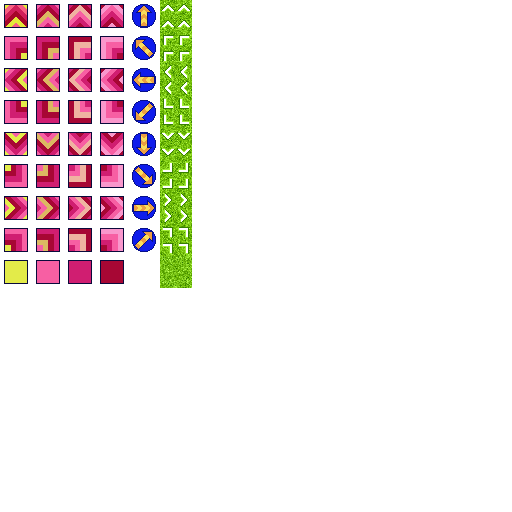
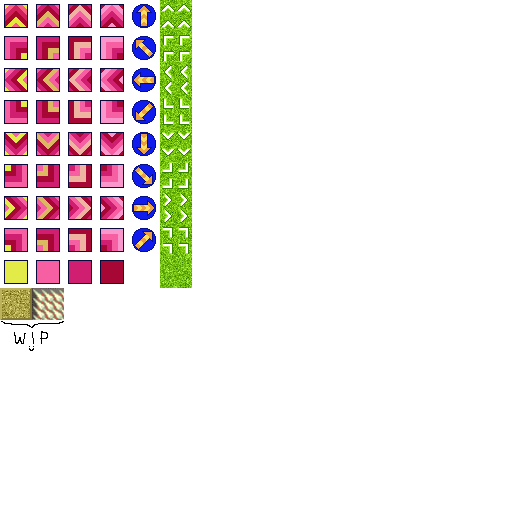
Added EffectGrass, EffectNeedle, EffectSand. (and more) Added support for DIRECTION_NULL of EffectDash

Changed region(s): [[0.0, 0.5625, 0.125, 0.6875]]

diff --git a/BulletShot/src/jp/dip/suitougreentea/BulletShot/effect/EffectGrass.java b/BulletShot/src/jp/dip/suitougreentea/BulletShot/effect/EffectGrass.java
@@ -5,17 +5,16 @@ import javax.vecmath.Vector3f;
 import jp.dip.suitougreentea.BulletShot.Resource;
 import jp.dip.suitougreentea.BulletShot.object.ObjectPlayer;
 import jp.dip.suitougreentea.BulletShot.renderer.RendererObject;
-import jp.dip.suitougreentea.BulletShot.renderer.RendererObjectDash;
-
+import jp.dip.suitougreentea.BulletShot.renderer.RendererObjectGrass;
 import com.bulletphysics.linearmath.Transform;
 
 /**
- * Add linear power to player.
+ * Change player's angle gradually decreasing velocity.
  * 
  * @author suitougreentea
  * 
  */
-public class EffectDash extends Effect {
+public class EffectGrass extends Effect {
 
     private int direction;
     public static final int DIRECTION_TOP = 0;
@@ -26,14 +25,13 @@ public class EffectDash extends Effect {
     public static final int DIRECTION_BOTTOMRIGHT = 5;
     public static final int DIRECTION_RIGHT = 6;
     public static final int DIRECTION_TOPRIGHT = 7;
-    public static final int DIRECTION_NULL = 8;
 
-    private int speed;
+    private int power;
 
-    public EffectDash(int direction, int speed) {
+    public EffectGrass(int direction, int power) {
         // super(x,z);
         this.direction = direction;
-        this.speed = speed;
+        this.power = power;
     }
 
     @Override
@@ -45,38 +43,35 @@ public class EffectDash extends Effect {
         if (player.isFlying()) {
             return false;
         }
-        if (player.getLastEffectX() == x && player.getLastEffectZ() == z) {
-            return false;
-        }
-
         Transform t = new Transform();
         player.getMotionState().getWorldTransform(t);
-        if (t.origin.x - x > 0.125f && t.origin.x - x < 0.875f && t.origin.z - z > 0.125f && t.origin.z - z < 0.875f) {
+
+        if (t.origin.x - x > 0f && t.origin.x - x < 1f && t.origin.z - z > 0f && t.origin.z - z < 1f) {
             return true;
         }
+
         return false;
     }
 
     @Override
     public void activate(int x, int z, ObjectPlayer player) {
-        if (direction == DIRECTION_NULL) {
-            Vector3f v = new Vector3f();
-            Vector3f s = new Vector3f();
-            player.getRigidBody().getLinearVelocity(v);
-            v.normalize();
-            s.x = v.x * 25 * speed;
-            s.z = v.z * 25 * speed;
-            player.getRigidBody().applyCentralForce(new Vector3f(s.x, 0f, s.z));
-        } else {
-            Vector3f s = new Vector3f();
-            s.x = (float) Math.cos((270 - direction * 45) * Math.PI / 180) * 25 * speed;
-            s.z = (float) Math.sin((270 - direction * 45) * Math.PI / 180) * 25 * speed;
-            player.getRigidBody().applyCentralForce(new Vector3f(s.x, 0f, s.z)); //TODO: 加速的な
-        }
+        Vector3f v = new Vector3f();
+        Vector3f s = new Vector3f();
+        player.getRigidBody().getLinearVelocity(v);
+        float velocity = (float) Math.sqrt(Math.pow(v.x, 2) + Math.pow(v.z, 2));
+        s.x = v.x * 0.985f;
+        s.y = v.y;
+        s.z = v.z * 0.985f;
+        player.getRigidBody().setLinearVelocity(s);
+
+        Vector3f s1 = new Vector3f();
+        s1.x = (float) Math.cos((270 - direction * 45) * Math.PI / 180) * velocity * 0.5f;
+        s1.z = (float) Math.sin((270 - direction * 45) * Math.PI / 180) * velocity * 0.5f;
+        player.getRigidBody().applyCentralForce(new Vector3f(s1.x, 0f, s1.z)); //TODO: 加速的な
     }
 
     @Override
     public RendererObject getRenderer(Resource gameResource) {
-        return new RendererObjectDash(gameResource, direction, speed);
+        return new RendererObjectGrass(gameResource, direction, power);
     }
 }

diff --git a/BulletShot/src/jp/dip/suitougreentea/BulletShot/effect/EffectNeedle.java b/BulletShot/src/jp/dip/suitougreentea/BulletShot/effect/EffectNeedle.java
@@ -1,0 +1,67 @@
+package jp.dip.suitougreentea.BulletShot.effect;
+
+import javax.vecmath.Vector3f;
+
+import jp.dip.suitougreentea.BulletShot.Resource;
+import jp.dip.suitougreentea.BulletShot.object.ObjectPlayer;
+import jp.dip.suitougreentea.BulletShot.renderer.RendererObject;
+import jp.dip.suitougreentea.BulletShot.renderer.RendererObjectNormal;
+
+import com.bulletphysics.linearmath.Transform;
+
+/**
+ * Change player's angle gradually decreasing velocity.
+ * 
+ * @author suitougreentea
+ * 
+ */
+//TODO: Rendering and motion
+public class EffectNeedle extends Effect {
+
+    private int power;
+
+    public EffectNeedle(int power) {
+        // super(x,z);
+        this.power = power;
+    }
+
+    @Override
+    public void onRegister() {
+    }
+
+    @Override
+    public boolean isActivatable(int x, int z, ObjectPlayer player) {
+        if (player.isFlying()) {
+            return false;
+        }
+        Transform t = new Transform();
+        player.getMotionState().getWorldTransform(t);
+
+        if (t.origin.x - x > 0f && t.origin.x - x < 1f && t.origin.z - z > 0f && t.origin.z - z < 1f) {
+            return true;
+        }
+
+        return false;
+    }
+
+    @Override
+    public void activate(int x, int z, ObjectPlayer player) {
+        Vector3f v = new Vector3f();
+        Vector3f s = new Vector3f();
+        player.getRigidBody().getLinearVelocity(v);
+        //v.normalize();
+        s.x = v.x;
+        s.y = 0;
+        s.z = v.z;
+        player.getRigidBody().setLinearVelocity(s);
+
+        Vector3f s1 = new Vector3f();
+        s1.y = 100;
+        player.getRigidBody().applyCentralForce(s1);
+    }
+
+    @Override
+    public RendererObject getRenderer(Resource gameResource) {
+        return new RendererObjectNormal(gameResource, 1, 9);
+    }
+}

diff --git a/BulletShot/src/jp/dip/suitougreentea/BulletShot/effect/EffectSand.java b/BulletShot/src/jp/dip/suitougreentea/BulletShot/effect/EffectSand.java
@@ -1,0 +1,62 @@
+package jp.dip.suitougreentea.BulletShot.effect;
+
+import javax.vecmath.Vector3f;
+
+import jp.dip.suitougreentea.BulletShot.Resource;
+import jp.dip.suitougreentea.BulletShot.object.ObjectPlayer;
+import jp.dip.suitougreentea.BulletShot.renderer.RendererObject;
+import jp.dip.suitougreentea.BulletShot.renderer.RendererObjectNormal;
+
+import com.bulletphysics.linearmath.Transform;
+
+/**
+ * Change player's angle gradually decreasing velocity.
+ * 
+ * @author suitougreentea
+ * 
+ */
+//TODO: Rendering
+public class EffectSand extends Effect {
+
+    private int power;
+
+    public EffectSand(int power) {
+        // super(x,z);
+        this.power = power;
+    }
+
+    @Override
+    public void onRegister() {
+    }
+
+    @Override
+    public boolean isActivatable(int x, int z, ObjectPlayer player) {
+        if (player.isFlying()) {
+            return false;
+        }
+        Transform t = new Transform();
+        player.getMotionState().getWorldTransform(t);
+
+        if (t.origin.x - x > 0f && t.origin.x - x < 1f && t.origin.z - z > 0f && t.origin.z - z < 1f) {
+            return true;
+        }
+
+        return false;
+    }
+
+    @Override
+    public void activate(int x, int z, ObjectPlayer player) {
+        Vector3f v = new Vector3f();
+        Vector3f s = new Vector3f();
+        player.getRigidBody().getLinearVelocity(v);
+        s.x = v.x * 0.95f;
+        s.y = v.y;
+        s.z = v.z * 0.95f;
+        player.getRigidBody().setLinearVelocity(s);
+    }
+
+    @Override
+    public RendererObject getRenderer(Resource gameResource) {
+        return new RendererObjectNormal(gameResource, 0, 9);
+    }
+}

diff --git a/BulletShot/src/jp/dip/suitougreentea/BulletShot/test/StageGeneratorFlat.java b/BulletShot/src/jp/dip/suitougreentea/BulletShot/test/StageGeneratorFlat.java
@@ -4,7 +4,10 @@ import jp.dip.suitougreentea.BulletShot.Stage;
 import jp.dip.suitougreentea.BulletShot.Terrain;
 import jp.dip.suitougreentea.BulletShot.effect.Effect;
 import jp.dip.suitougreentea.BulletShot.effect.EffectDash;
+import jp.dip.suitougreentea.BulletShot.effect.EffectGrass;
 import jp.dip.suitougreentea.BulletShot.effect.EffectKick;
+import jp.dip.suitougreentea.BulletShot.effect.EffectNeedle;
+import jp.dip.suitougreentea.BulletShot.effect.EffectSand;
 
 public class StageGeneratorFlat implements StageGenerator {
     private int stageWidth;
@@ -46,8 +49,16 @@ public class StageGeneratorFlat implements StageGenerator {
         effect[5][1] = new EffectKick(EffectKick.DIRECTION_TOP);
         effect[3][1] = new EffectKick(EffectKick.DIRECTION_TOPRIGHT);
 
-        effect[2][3] = new EffectDash(EffectDash.DIRECTION_RIGHT, 6);
+        effect[2][3] = new EffectDash(EffectDash.DIRECTION_NULL, 6);
         effect[6][3] = new EffectDash(EffectDash.DIRECTION_LEFT, 6);
+
+        effect[1][0] = new EffectGrass(EffectGrass.DIRECTION_BOTTOM, 6);
+        effect[2][0] = new EffectGrass(EffectGrass.DIRECTION_BOTTOM, 6);
+        effect[3][0] = new EffectGrass(EffectGrass.DIRECTION_BOTTOM, 6);
+
+        effect[0][1] = new EffectSand(6);
+        effect[0][2] = new EffectSand(6);
+        effect[0][3] = new EffectNeedle(6);
 
         return Stage.createTerrain(type, height, direction, bumper, effect, chara);
     }

diff --git a/BulletShot/src/jp/dip/suitougreentea/BulletShot/renderer/RendererObjectDash.java b/BulletShot/src/jp/dip/suitougreentea/BulletShot/renderer/RendererObjectDash.java
@@ -3,10 +3,13 @@ package jp.dip.suitougreentea.BulletShot.renderer;
 import jp.dip.suitougreentea.BulletShot.Resource;
 import jp.dip.suitougreentea.BulletShot.Terrain;
 
+//TODO: Speed
 public class RendererObjectDash extends RendererObjectNormal {
+    private int speed;
 
-    public RendererObjectDash(Resource gameResource, int direction) {
+    public RendererObjectDash(Resource gameResource, int direction, int speed) {
         super(gameResource, -1, direction);
+        this.speed = speed;
     }
 
     @Override

diff --git a/BulletShot/src/jp/dip/suitougreentea/BulletShot/renderer/RendererObjectGrass.java b/BulletShot/src/jp/dip/suitougreentea/BulletShot/renderer/RendererObjectGrass.java
@@ -1,0 +1,18 @@
+package jp.dip.suitougreentea.BulletShot.renderer;
+
+import jp.dip.suitougreentea.BulletShot.Resource;
+
+//TODO: power
+public class RendererObjectGrass extends RendererObjectNormal {
+    private int power;
+
+    public RendererObjectGrass(Resource gameResource, int direction, int power) {
+        super(gameResource, 5, direction);
+        this.power = power;
+    }
+
+    /*@Override
+    public void draw(Terrain t, int timer) {
+        drawBase(t, (timer / 3) % 4, texturey);
+    }*/
+}

diff --git a/BulletShot/src/jp/dip/suitougreentea/BulletShot/BulletShot.java b/BulletShot/src/jp/dip/suitougreentea/BulletShot/BulletShot.java
@@ -18,7 +18,7 @@ public final class BulletShot {
 
     public static final String PRODUCT_NAME = "BulletShot";
     public static final String VERSION = "M3";
-    public static final String DEV_VERSION = "(OBJECT / GAMEPLAY TEST) - 0.3.05";
+    public static final String DEV_VERSION = "(OBJECT / GAMEPLAY TEST) - 0.3.07";
 
     public static void main(String[] args) throws SlickException {
         LOGGER.setUseParentHandlers(false);

diff --git a/BulletShot/src/jp/dip/suitougreentea/BulletShot/effect/EffectKick.java b/BulletShot/src/jp/dip/suitougreentea/BulletShot/effect/EffectKick.java
@@ -27,9 +27,6 @@ public class EffectKick extends Effect {
     public static final int DIRECTION_RIGHT = 6;
     public static final int DIRECTION_TOPRIGHT = 7;
 
-    public static final int SPEED_SLOW = 0;
-    public static final int SPEED_FAST = 1;
-
     public EffectKick(int direction) {
         // super(x,z);
         this.direction = direction;
